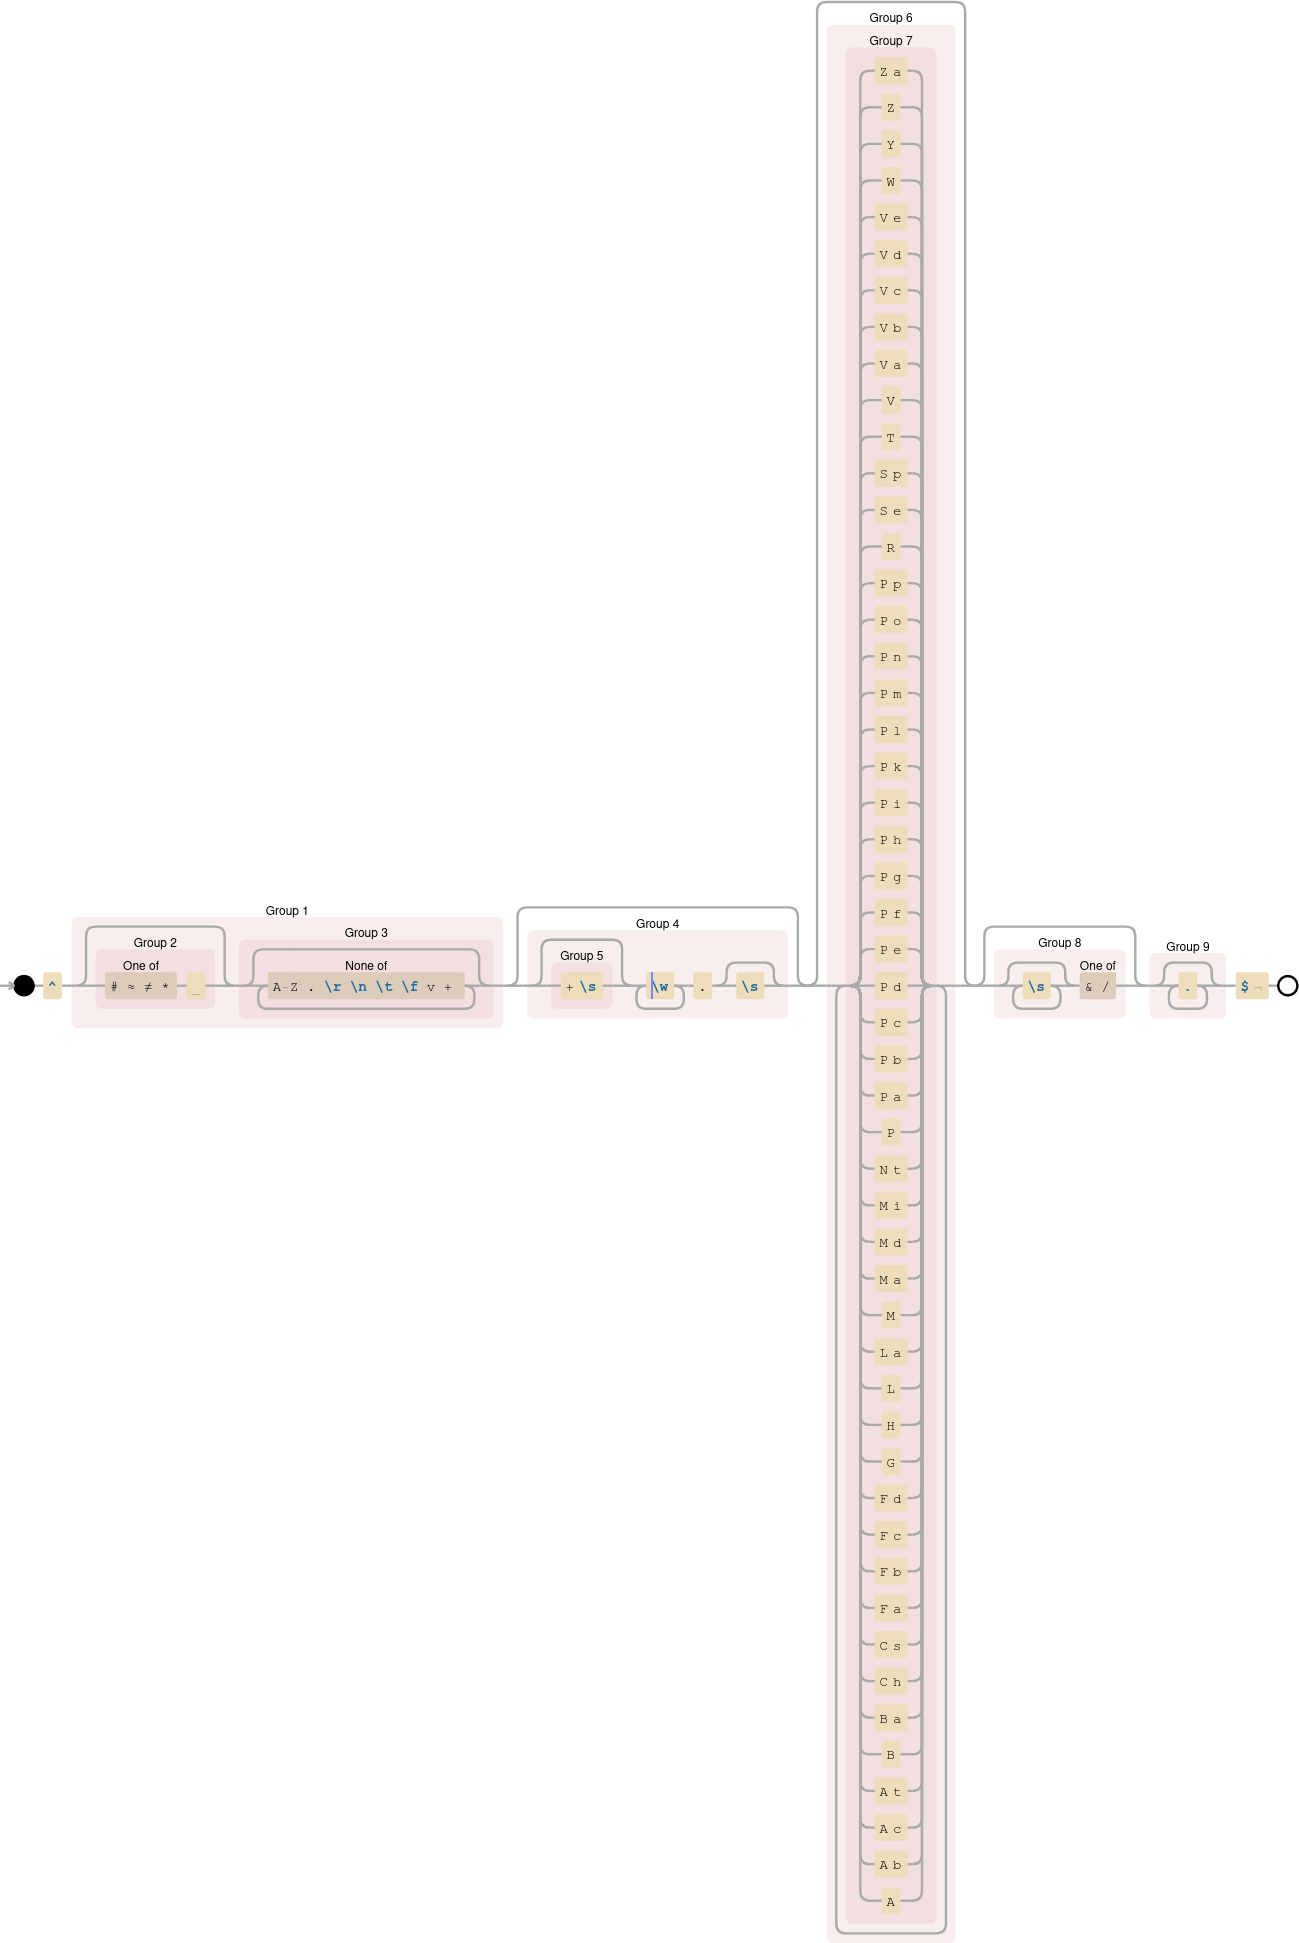
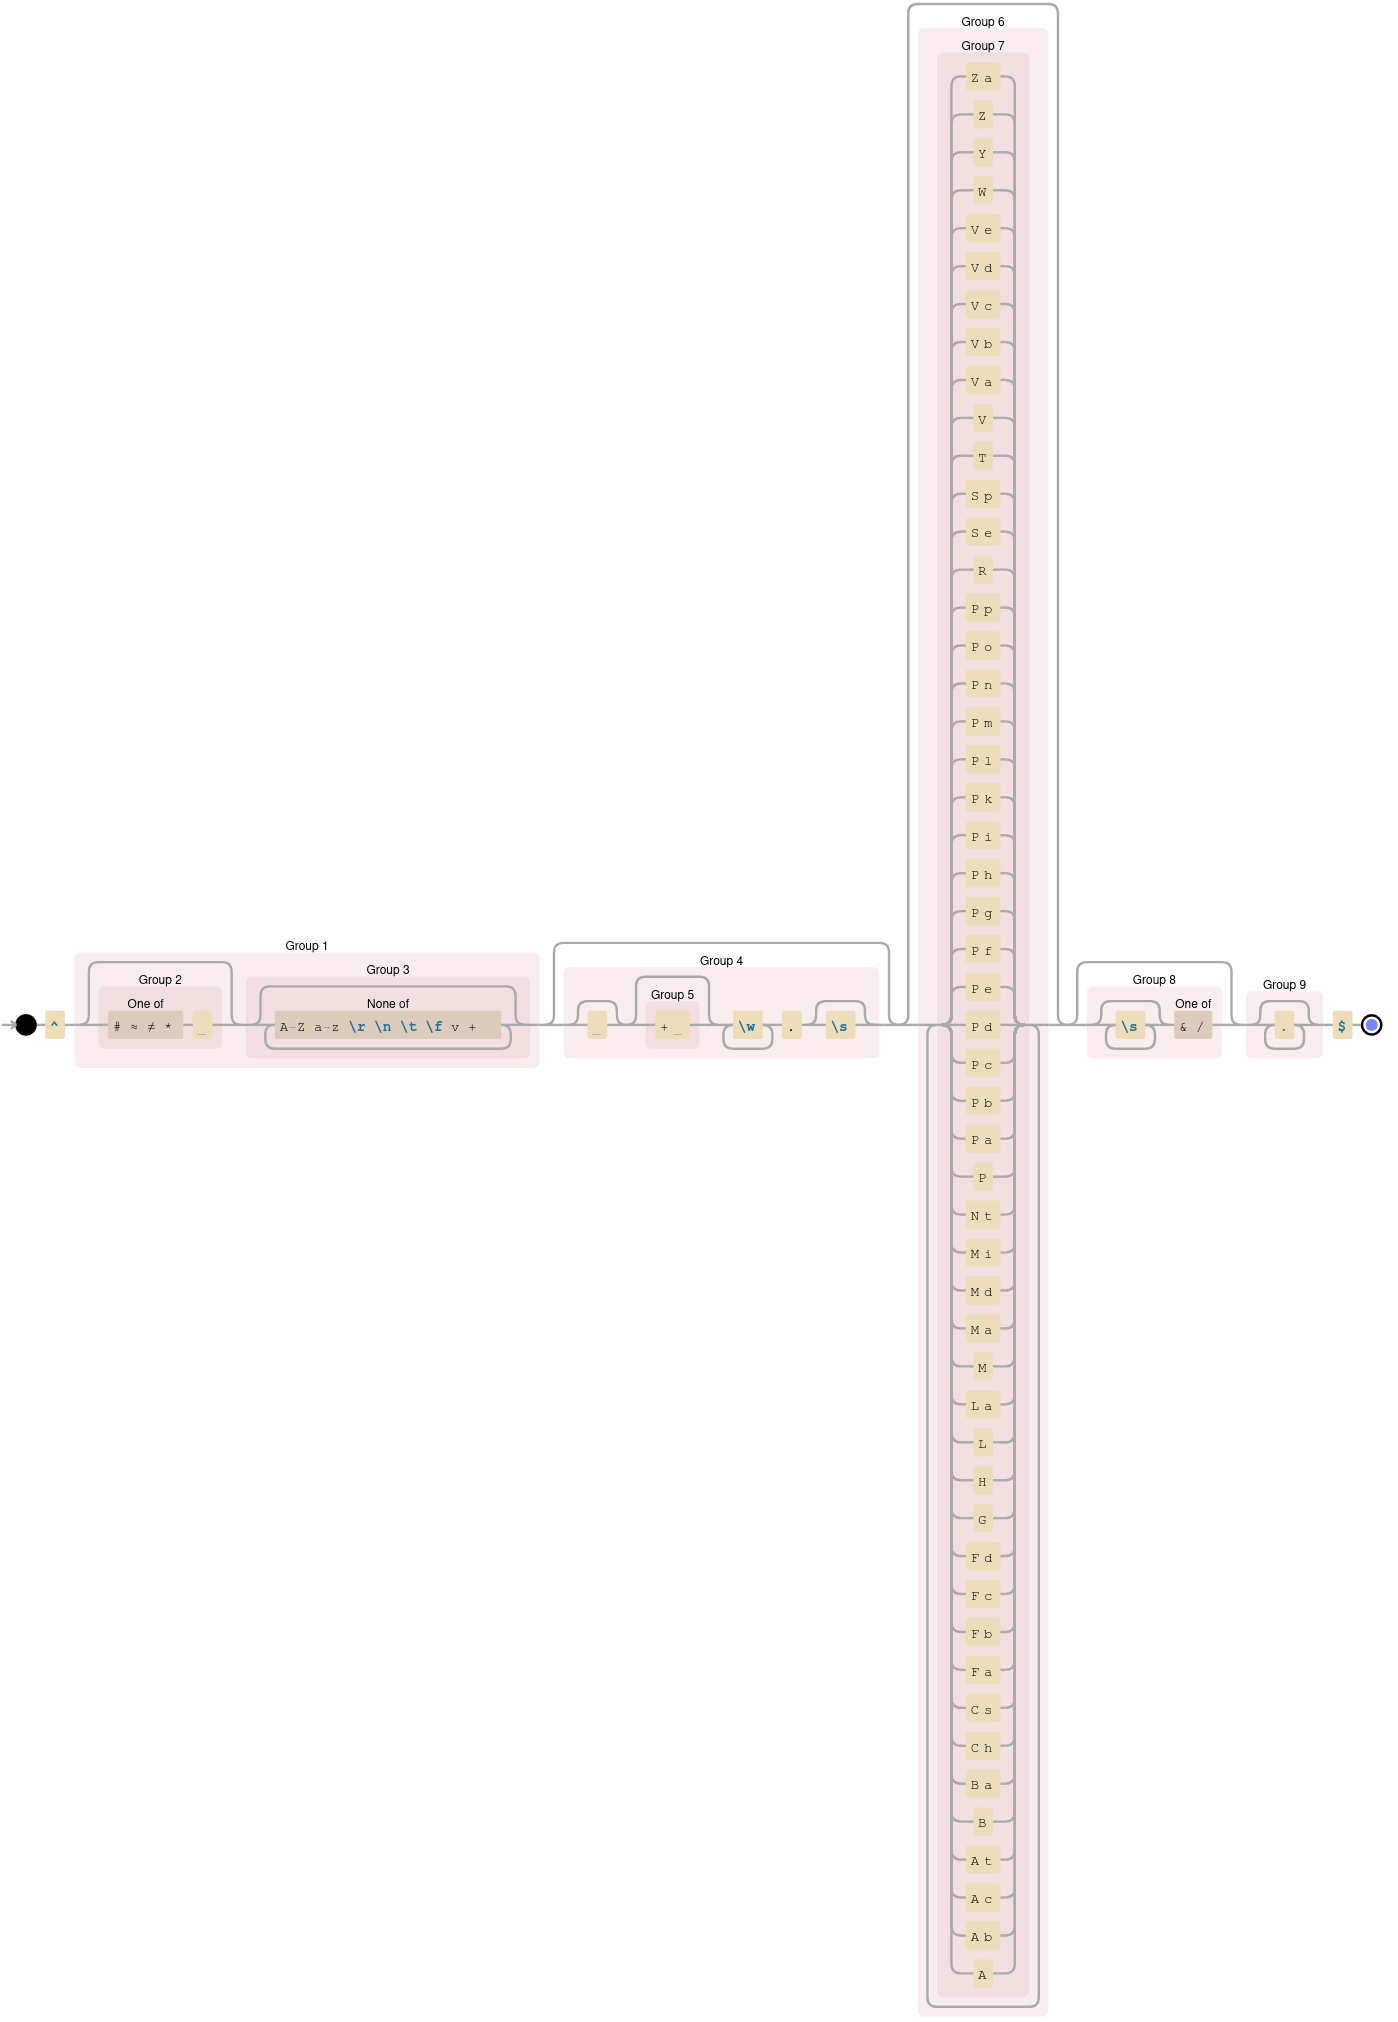
Fixed word usage regex

Changed region(s): [[0.4003, 0.0, 1.0, 1.0], [0.0616, 0.4632, 0.3387, 0.525], [0.3695, 0.4632, 0.4003, 0.4941]]

diff --git a/integrator/regex.py b/integrator/regex.py
@@ -1,9 +1,12 @@
+#!/usr/bin/env python3
 """To debug use:
 https://www.debuggex.com/ for visualisation
 https://regex101.com/ for breakdown
 """
 import logging as log
-log.DEBUG = 100
+
+if __name__ == "__main__":
+    log.DEBUG = 100
 
 from const import V_LEMMA_SEP, H_LEMMA_SEP, SPECIAL_CHARS
 from config import VAR_GR, VAR_SL
@@ -24,18 +27,19 @@ address_regex = (
 sem_regex = r"([" + "".join(SPECIAL_CHARS) + "] )?"
 # word_regex = r"([^A-Z\r\n\t\f\v\+]+)"
 lemma_regex = r"([^A-Za-z\r\n\t\f\v\+]*)"
-word_regex = r"([^([A-Za-z](a-z)?)\r\n\t\f\v]*)"
 annot_regex = r"\w+\."
+word_regex = r"(([^A-Za-z\r\n\t\f]|" + annot_regex + ")+)"
 # sources_regex = r"([A-Z]\w*)"
 
 # The regex parser is greedy. Thus we want "Ma" to show before "M", so that it gets it.
 UNIFIED_SOURCES = VAR_SL + VAR_GR
 UNIFIED_SOURCES.sort()
 sources_regex = r"(" + "|".join(UNIFIED_SOURCES[::-1]) + ")"
+sources_block_regex = r"(" + sources_regex + r"+)?"
 
 # multiword_regex = r"^([^A-Z]+)(" + sources_regex + r"+)(.*)$"
 # multiword_regex = r"^(\w[^A-Z]*)(" + sources_regex + r"+)(.*)$"
-multiword_regex = r"^" + word_regex + "(" + sources_regex + r"+)(.*)$"
+multiword_regex = r"^" + word_regex + sources_block_regex + "(.*)$"
 # multiword_regex = (
 #     r"^"
 #     + lemma_regex
@@ -60,9 +64,9 @@ multilemma_regex = (
     + ")"
     + r"( ?(\+ )?"
     + annot_regex
-    + r"\s?)?("
-    + sources_regex
-    + r"+)?(\s*["
+    + r"\s?)?"
+    + sources_block_regex
+    + r"(\s*["
     + f"\\{V_LEMMA_SEP}\\{H_LEMMA_SEP}"
     + r"])?(.*)$"
 )

diff --git a/integrator/semantics/semvar.py b/integrator/semantics/semvar.py
@@ -97,12 +97,17 @@ def multiword(self, row: List[str]) -> Dict[Source, str]:
     result: Dict[Source, str] = SortedDict()
     m = re.search(multiword_regex, row[self.word].strip())
     while m:
-        s = Source(m.group(2))
+        s = Source(m.group(3))
         v = m.group(1).strip()
         result[s] = " ".join([result[s], v]) if s in result else v
-        rest = m.group(4).strip()
+        rest = m.group(5).strip()
         m = re.search(multiword_regex, rest)
     if not result:
+        return {Source(DEFAULT_SOURCES[self.lang]): row[self.word].strip()}
+    if len(result) == 1 and "" in result:
+        assert (
+            result[Source()] == row[self.word].strip()
+        ), f"Default source content '{result[Source()]}' does not match cell content '{row[self.word].strip()}'"
         return {Source(DEFAULT_SOURCES[self.lang]): row[self.word].strip()}
         # return {'': row[self.word].strip()}
 

diff --git a/integrator/semantics_multiword_test.py b/integrator/semantics_multiword_test.py
@@ -154,6 +154,7 @@ def test_iako_obrazom():
     # assert result == {Source("H"): ""}
     assert result == {Source("WG"): "om."}
 
+
 def test_gr_dat():
     row = (
         ["к WGH", "къ"]
@@ -173,4 +174,4 @@ def test_gr_dat():
 
 
 if __name__ == "__main__":
-    test_gr_dat()
+    test_basic()

diff --git a/integrator/README.md b/integrator/README.md
@@ -60,8 +60,21 @@ When unrecognised sources are encountered, the program reports an error.
 
 ## Multivariant annotation
 
-Since the number of source variants could be very big (currently about 30 for Greek), it is imperative that all this variation can be represented in a manageable number of columns. As a consequence, for each language, within the variants column, multiple variants can be encoded. To make this possible, a single cell could contain multiple lemmas. Such cells are parsed with regular expressions, defined in [`regex.py`](regex.py) and visualised here using https://debuggex.com.
+Since the number of source variants could be very big (currently about 30 for Greek), it is imperative that all this variation can be represented in a manageable number of columns. As a consequence, for each language, within the variants column, multiple variants can be encoded. To make this possible, a single cell could contain multiple word usages or lemmas. Such cells are parsed with regular expressions, defined in [`regex.py`](regex.py). This feature is shortly mentioned in the [related publications](../docs/), verified in the [tests](./test/) and visualised here using https://debuggex.com and interpeted (see guides to regex groups) with https://regex101.com/.
 
+### Variant Word
+![A regular expression showing how multiword cells are parsed](../docs/multiword-regex.png) 
+
+A guide to regex groups follows:
+
+1. Possible word usage and/or anotation group
+2. The last part of potentially repetitive elements of group 1
+3. The group of all possible sources
+4. A source sigle (as parsed by [`config.py`](config.py))
+5. potential other patterns (following the same pattern)
+
+
+### Variant Lemmas
 ![A regular expression showing how multilemma cells are parsed](../docs/multilemma-regex.png) 
 
 A guide to regex groups follows:
@@ -76,8 +89,6 @@ A guide to regex groups follows:
 8. A potential separator (used only at top lemma level, defined in [`const.py`](const.py))
 9. potential other patterns (following the same pattern)
 
-
-This feature is shortly mentioned in the [related publications](../docs/) and illustrated in the [tests](./test/).
 
 ## Data Model
 
